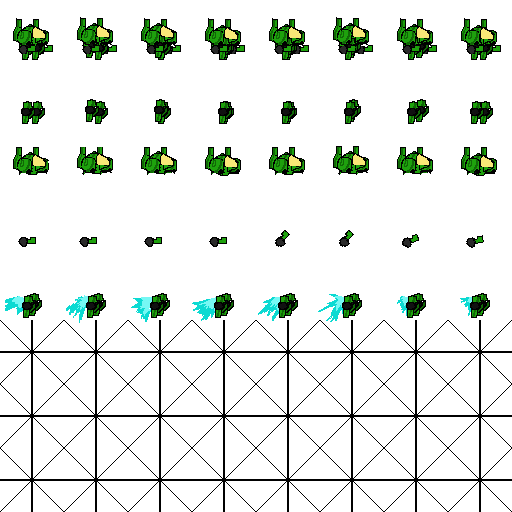
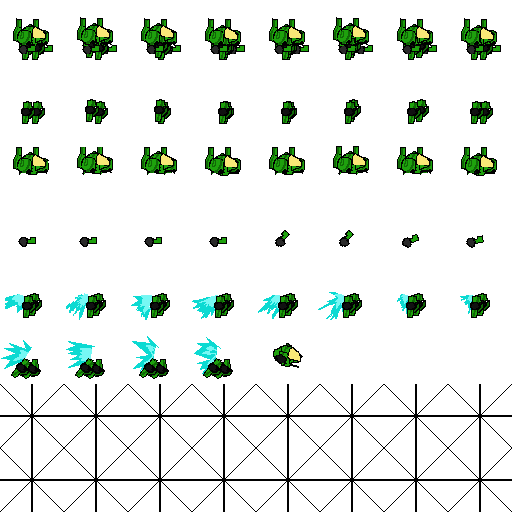
Fixed animatables

diff --git a/Assets/Scripts/Mech/BaseMech.cs b/Assets/Scripts/Mech/BaseMech.cs
@@ -181,6 +181,7 @@ namespace Assets.Scripts.Mech
                 if (this._dashCooldown <= 0 && !this.IsAirborne && Math.Abs(xMovement) > 0.8f)
                 {
                     this.Body.Legs.PlayClip("dash");
+                    this.Body.Cab.PlayClip("dash");
                     var dashSpeed = this.DerivedStats.DashSpeed;
                     Debug.Log(dashSpeed);
                     if (!this.IsFacingRight)

diff --git a/Assets/Scripts/Animations/Animatable.cs b/Assets/Scripts/Animations/Animatable.cs
@@ -157,6 +157,7 @@ namespace Assets.Scripts.Animations
                 var nextClip = this._currentClip.TransitTo;
                 if (!String.IsNullOrEmpty(nextClip))
                 {
+                    this._currentClip = null;
                     this.PlayClip(nextClip, this._speedModifier, true);
                 }
                 else
